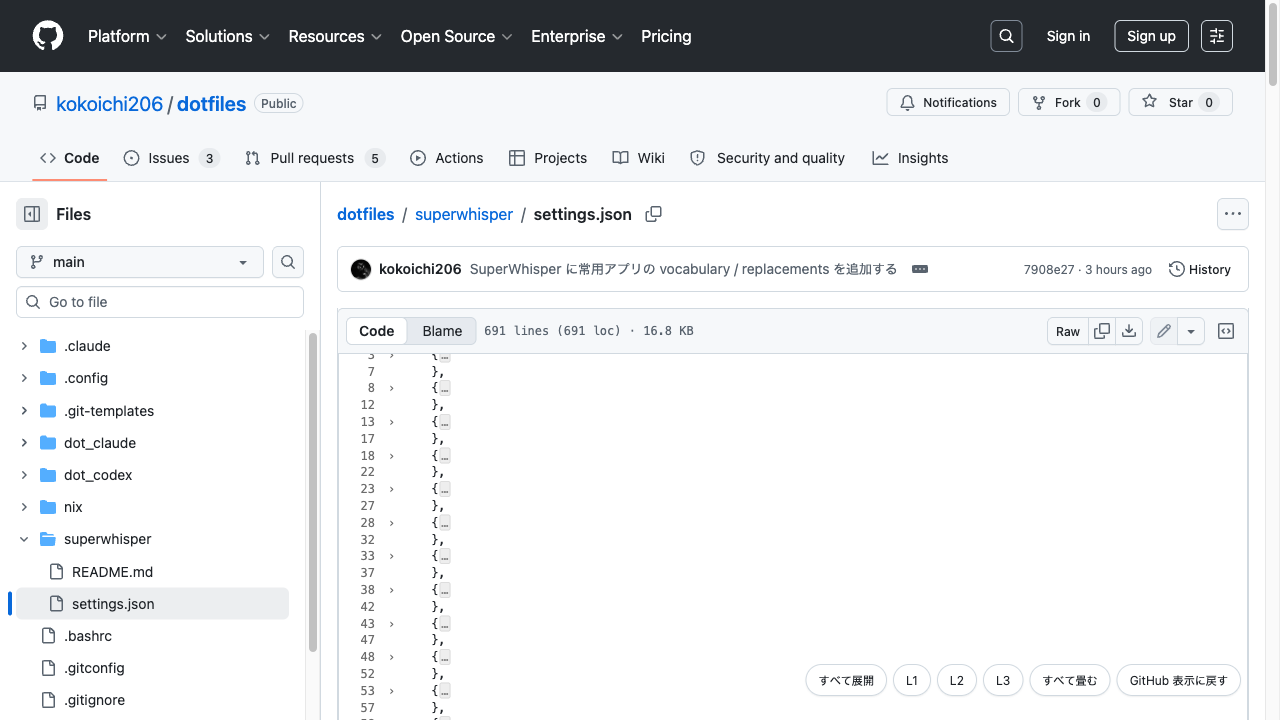
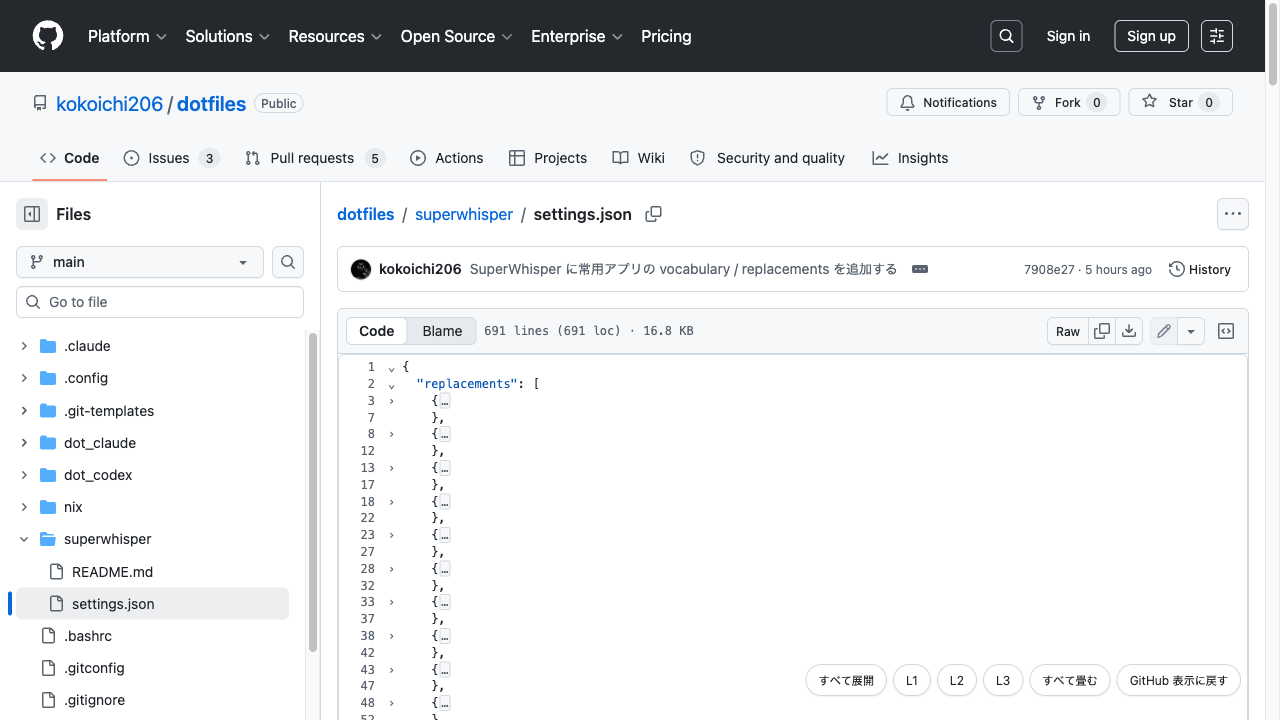
先頭行のヘッダ被りを解消し、配色を GitHub の prettylights 変数に追従させる
- section の margin-top は絶対描画のファイルヘッダ用の確保帯のため、
  section を隠すときにパネルへ引き継ぐ（引き継がないと先頭行が隠れる）
- oneDark をやめ、GitHub がページに公開する --color-prettylights-syntax-* を
  参照する HighlightStyle に変更。ライト/ダーク切替へ自動追従する
- E2E に回帰チェックを追加: 先頭行のヒット判定 / ハイライト適用の検証

diff --git a/src/viewer/create-viewer.ts b/src/viewer/create-viewer.ts
@@ -4,12 +4,13 @@ import {
   foldService,
   foldEffect,
   unfoldAll,
+  syntaxHighlighting,
   LanguageDescription,
 } from "@codemirror/language";
 import { languages } from "@codemirror/language-data";
 import { Compartment, EditorState } from "@codemirror/state";
 import { EditorView, lineNumbers } from "@codemirror/view";
-import { oneDark } from "@codemirror/theme-one-dark";
+import { githubHighlightStyle } from "./github-highlight";
 import { computeFoldRanges, type FoldRange } from "./indent-fold";
 
 export interface FoldableViewer {
@@ -20,10 +21,12 @@ export interface FoldableViewer {
   destroy: () => void;
 }
 
+/* 配色は GitHub がページに公開している CSS 変数を参照し、テーマ切替に自動追従する */
 const baseTheme = EditorView.theme({
   "&": {
     fontSize: "12px",
     backgroundColor: "transparent",
+    color: "var(--fgColor-default, #1f2328)",
   },
   ".cm-content": {
     fontFamily:
@@ -32,19 +35,18 @@ const baseTheme = EditorView.theme({
   ".cm-gutters": {
     backgroundColor: "transparent",
     border: "none",
+    color: "var(--fgColor-muted, #59636e)",
   },
   ".cm-lineNumbers .cm-gutterElement": {
     minWidth: "48px",
     paddingRight: "12px",
   },
+  ".cm-foldPlaceholder": {
+    backgroundColor: "var(--bgColor-muted, #f6f8fa)",
+    border: "1px solid var(--borderColor-default, #d1d9e0)",
+    color: "var(--fgColor-muted, #59636e)",
+  },
 });
-
-function isDarkMode(): boolean {
-  const mode = document.documentElement.getAttribute("data-color-mode");
-  if (mode === "dark") return true;
-  if (mode === "light") return false;
-  return window.matchMedia("(prefers-color-scheme: dark)").matches;
-}
 
 export async function createViewer(
   parent: HTMLElement,
@@ -82,7 +84,7 @@ export async function createViewer(
         }),
         languageCompartment.of([]),
         baseTheme,
-        isDarkMode() ? oneDark : [],
+        syntaxHighlighting(githubHighlightStyle),
         EditorState.readOnly.of(true),
         EditorView.editable.of(false),
         EditorView.lineWrapping,

diff --git a/src/viewer/github-highlight.ts b/src/viewer/github-highlight.ts
@@ -1,0 +1,50 @@
+import { HighlightStyle } from "@codemirror/language";
+import { tags as t } from "@lezer/highlight";
+
+/* GitHub がページに公開している prettylights 変数を参照する。
+   ライト/ダークの切替は GitHub 側の変数値の変化にそのまま追従する。
+   fallback は GitHub ライトテーマの実値 */
+const v = (name: string, fallback: string): string =>
+  `var(--color-prettylights-syntax-${name}, ${fallback})`;
+
+export const githubHighlightStyle = HighlightStyle.define([
+  {
+    tag: [t.keyword, t.operatorKeyword, t.modifier, t.moduleKeyword],
+    color: v("keyword", "#cf222e"),
+  },
+  {
+    tag: [t.string, t.special(t.string), t.regexp, t.character],
+    color: v("string", "#0a3069"),
+  },
+  {
+    tag: [
+      t.number,
+      t.bool,
+      t.null,
+      t.atom,
+      t.constant(t.variableName),
+      t.self,
+    ],
+    color: v("constant", "#0550ae"),
+  },
+  {
+    tag: [t.propertyName, t.attributeName, t.tagName],
+    color: v("entity-tag", "#116329"),
+  },
+  {
+    tag: [
+      t.function(t.variableName),
+      t.function(t.propertyName),
+      t.className,
+      t.typeName,
+      t.namespace,
+      t.macroName,
+    ],
+    color: v("entity", "#6639ba"),
+  },
+  { tag: [t.comment, t.lineComment, t.blockComment], color: v("comment", "#59636e") },
+  { tag: t.heading, color: v("markup-heading", "#0550ae"), fontWeight: "bold" },
+  { tag: t.emphasis, fontStyle: "italic" },
+  { tag: t.strong, fontWeight: "bold" },
+  { tag: t.link, color: v("constant", "#0550ae"), textDecoration: "underline" },
+]);

diff --git a/src/content/main.ts b/src/content/main.ts
@@ -95,6 +95,10 @@ async function activate(): Promise<void> {
 
   const panel = document.createElement("div");
   panel.id = PANEL_ID;
+  /* section の margin-top は、絶対描画されるファイルヘッダ（Code/Blame バー）用の
+     確保帯。section を非表示にすると消えるため、パネルへ引き継がないと
+     先頭行がヘッダの裏に隠れる */
+  panel.style.marginTop = getComputedStyle(section).marginTop;
   section.insertAdjacentElement("beforebegin", panel);
   section.style.display = "none";
 
